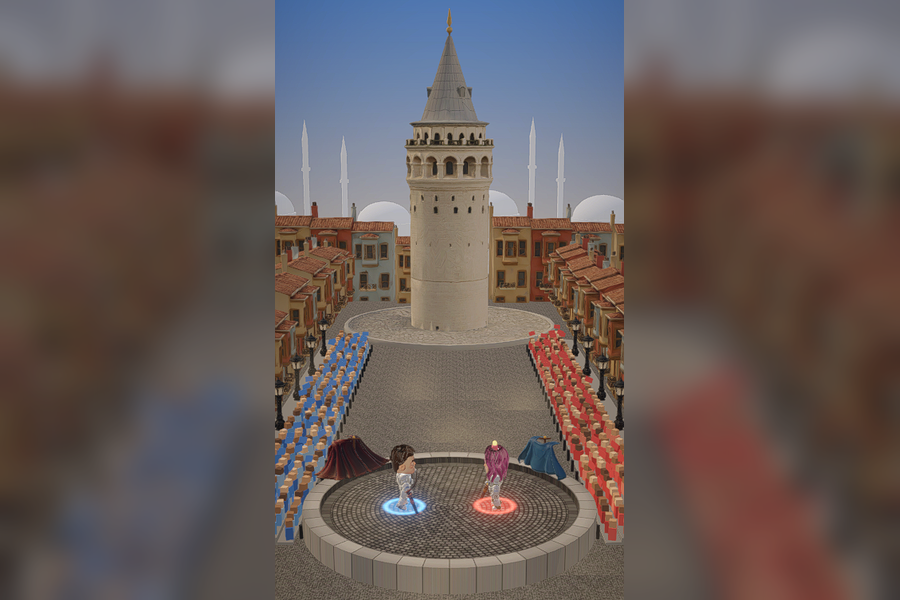
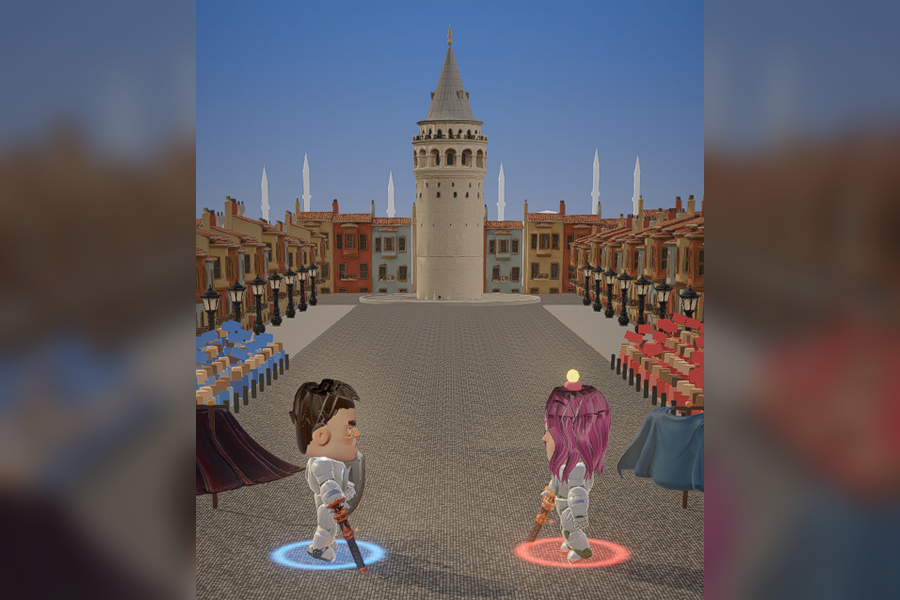
Galata: the fight on the street itself (no platform), the tower far up the street so the fight camera sees it whole

diff --git a/Assets/_Project/Scripts/Visual/DuelStandsCity.cs b/Assets/_Project/Scripts/Visual/DuelStandsCity.cs
@@ -3,7 +3,7 @@ using UnityEngine;
 namespace SquashBot.Visual
 {
     /// <summary>
-    /// The city stages (Galata first): no stands; the platform lies in a cobbled street that runs up to the landmark,
+    /// The city stages (Galata first): no stands, no platform; the fight is on a cobbled street that runs up to the landmark,
     /// the fans standing along its pavements lengthwise on low steps, houses either side, lamps, bollards, and the city's
     /// domes and minarets far behind.
     /// </summary>
@@ -21,13 +21,16 @@ namespace SquashBot.Visual
             sun = new Color(1f, 0.84f, 0.62f), sunPower = 1.25f, ambSky = new Color(0.66f, 0.7f, 0.82f), ambHorizon = new Color(0.82f, 0.7f, 0.56f), ambGround = new Color(0.3f, 0.29f, 0.28f),
         };
 
-        /// <summary>The landmark's height, its distance behind the platform's rim, and the houses' heights.</summary>
-        private const float TowerHeight = 42f, TowerBack = 56f, HouseMin = 10f, HouseMax = 13f;
+        /// <summary>The landmark's height and its distance behind the floor's room (far: the low fight camera sees it whole, at
+        /// the street's end), and the houses' heights.</summary>
+        private const float TowerHeight = 30f, TowerBack = 100f, HouseMin = 8f, HouseMax = 11f;
         /// <summary>Which way the house model's front faces before it is turned (degrees about up: 0 = +z).</summary>
         private const float HouseFront = 0f;
         /// <summary>How many rows of fans stand on each pavement, and how far apart (along the street and across it).</summary>
         private const int FanRows = 4;
         private const float FanRow = 1f, FanStep = 0.3f;
+        /// <summary>How far up the street the fans stand (beyond it the street is empty up to the tower).</summary>
+        private const float CrowdLength = 46f;
 
         /// <summary>The ground: one big quad, its picture tiled about every 3 m.</summary>
         private void PavedGround(Transform p, Look look, float ground)
@@ -57,7 +60,7 @@ namespace SquashBot.Visual
         }
 
         /// <summary>
-        /// The street (along -x, away from the camera) from beside the platform up to the tower on its cobbled plaza: on each
+        /// The street (along -x, away from the camera) from beside the fight up to the tower on its cobbled plaza: on each
         /// side (south -z: <paramref name="southTeam"/>'s fans) stepped pavements full of fans, bollards at the kerb, lamps,
         /// a row of houses; houses closing the far end behind the tower, the city's domes and minarets beyond.
         /// </summary>
@@ -78,15 +81,15 @@ namespace SquashBot.Visual
             tower.position += new Vector3(towerX - tb.center.x, ground - tb.min.y - 0.05f, centre.z - tb.center.z);
             float plaza = BoundsOf(tower).extents.x;
 
-            float front = centre.x + platR * 0.35f; // (the street's near end: a little in front of the platform's middle)
+            float front = centre.x + platR * 0.35f; // (the street's near end: a little in front of the fight's middle)
             float end = towerX - plaza;             // (its far end: the plaza's back)
-            float kerb = platR + 0.6f;              // (the first fans' row, off the platform's rim)
+            float kerb = platR + 0.6f;              // (the first fans' row, clear of the floor)
             float fronts = kerb + FanRows * FanRow + 0.6f; // (the houses' fronts)
 
             for (int side = -1; side <= 1; side += 2)
             {
                 int team = side < 0 ? southTeam : 1 - southTeam;
-                float stepsEnd = towerX + plaza * 0.9f; // (the pavements stop at the plaza)
+                float stepsEnd = Mathf.Max(towerX + plaza * 0.9f, front - CrowdLength); // (the fans near the fight; the pavements stop short of the plaza)
                 // the stepped pavement: each row a step higher, the last reaching the houses
                 for (int r = 0; r < FanRows; r++)
                 {
@@ -94,21 +97,25 @@ namespace SquashBot.Visual
                     float z0 = kerb + r * FanRow - 0.4f, z1 = r == FanRows - 1 ? fronts + 0.5f : z0 + FanRow;
                     Shapes.Rounded("Step", p, new Vector3((front + stepsEnd) * 0.5f, (ground + top) * 0.5f, centre.z + side * (z0 + z1) * 0.5f),
                         new Vector3(front - stepsEnd, top - ground, z1 - z0 + 0.02f), 0.04f, stone);
-                    // its fans, lengthwise, each looking at the platform
+                    // its fans, lengthwise, each looking at the fight
                     for (float x = front - 0.6f; x > stepsEnd + 0.6f; x -= 0.55f * k)
                         AddFan(new Vector3(x + R(-0.15f, 0.15f) * k, top, centre.z + side * (kerb + r * FanRow + R(-0.1f, 0.1f))), team, rng);
                 }
                 // bollards at the kerb, as in the old streets
                 for (float x = front - 1f; x > stepsEnd + 1f; x -= 2.4f)
                     Shapes.Primitive(PrimitiveType.Cylinder, "Bollard", p, new Vector3(x, ground + 0.45f, centre.z + side * (kerb - 0.75f)), new Vector3(0.24f, 0.45f, 0.24f), iron);
-                // lamps against the houses
-                for (float x = front - 2f; x > stepsEnd; x -= 9f)
+                // beyond the fans a plain pavement up to the plaza
+                if (stepsEnd > towerX + plaza)
+                    Shapes.Rounded("Pavement", p, new Vector3((stepsEnd + towerX + plaza) * 0.5f, ground + 0.1f, centre.z + side * (kerb - 0.4f + fronts + 0.5f) * 0.5f),
+                        new Vector3(stepsEnd - towerX - plaza, 0.2f, fronts + 0.9f - kerb), 0.04f, stone);
+                // lamps against the houses, all the way up
+                for (float x = front - 2f; x > towerX + plaza; x -= 9f)
                 {
                     var lamp = MadeModel(p, look, "lamp", false);
                     var lb = BoundsOf(lamp);
                     lamp.localScale = Vector3.one * (4.6f / Mathf.Max(0.01f, lb.size.y));
                     lb = BoundsOf(lamp);
-                    float top = ground + 0.2f + (FanRows - 1) * FanStep;
+                    float top = x > stepsEnd ? ground + 0.2f + (FanRows - 1) * FanStep : ground + 0.2f;
                     lamp.position += new Vector3(x - lb.center.x, top - lb.min.y, centre.z + side * (fronts - 0.5f) - lb.center.z);
                 }
                 // the houses along the street, fronts to it, up past the plaza
@@ -145,20 +152,20 @@ namespace SquashBot.Visual
             // the old city's skyline far behind: domes on drums, minarets
             var far = Matte(new Color(0.66f, 0.7f, 0.8f), 0.6f); // (hazy blue in the distance)
             var cone = Cone(12);
-            float farX = end - 40f;
+            float farX = end - 22f; // (inside the camera's reach)
             for (int i = 0; i < 4; i++)
             {
                 var at = new Vector3(farX - R(0f, 8f), ground, centre.z + Mathf.Lerp(-34f, 34f, i / 3f) + R(-4f, 4f));
-                float rad = R(4.5f, 6.5f);
+                float rad = R(3.5f, 5f);
                 Shapes.Primitive(PrimitiveType.Cylinder, "Drum", p, at + Vector3.up * rad * 0.9f, new Vector3(rad * 2.1f, rad * 0.9f, rad * 2.1f), far);
                 Shapes.Primitive(PrimitiveType.Sphere, "Dome", p, at + Vector3.up * rad * 1.8f, new Vector3(rad * 2f, rad * 1.5f, rad * 2f), far);
                 for (int m = -1; m <= 1; m += 2)
                 {
-                    float mh = R(22f, 27f);
+                    float mh = R(13f, 17f);
                     var foot = at + new Vector3(R(-2f, 2f), 0f, m * (rad + 2.5f));
-                    Shapes.Primitive(PrimitiveType.Cylinder, "Minaret", p, foot + Vector3.up * mh * 0.5f, new Vector3(1.1f, mh * 0.5f, 1.1f), far);
-                    Shapes.Primitive(PrimitiveType.Cylinder, "Balcony", p, foot + Vector3.up * mh * 0.78f, new Vector3(1.8f, 0.3f, 1.8f), far);
-                    Piece(p, "MinaretCap", cone, foot + Vector3.up * mh, new Vector3(1.2f, 4f, 1.2f), far);
+                    Shapes.Primitive(PrimitiveType.Cylinder, "Minaret", p, foot + Vector3.up * mh * 0.5f, new Vector3(0.8f, mh * 0.5f, 0.8f), far);
+                    Shapes.Primitive(PrimitiveType.Cylinder, "Balcony", p, foot + Vector3.up * mh * 0.78f, new Vector3(1.3f, 0.25f, 1.3f), far);
+                    Piece(p, "MinaretCap", cone, foot + Vector3.up * mh, new Vector3(0.9f, 2.8f, 0.9f), far);
                 }
             }
 

diff --git a/Assets/_Project/Scripts/Visual/DuelStands.cs b/Assets/_Project/Scripts/Visual/DuelStands.cs
@@ -659,25 +659,31 @@ namespace SquashBot.Visual
             if (batches.Count == 0) MakeBatches();
             float R(float a, float b) => a + (float)rng.NextDouble() * (b - a);
 
-            // The platform: round (as made), its stone ring a little wider than the floor, its top where the floor is.
-            var plat = MadeModel(p, look, "platform", true, true);
-            var pb = BoundsOf(plat);
-            float kp = Mathf.Max(hw, hd) * 2f * 1.28f / Mathf.Max(pb.size.x, pb.size.z);
-            plat.localScale = new Vector3(kp, kp * look.thick, kp);
-            pb = BoundsOf(plat);
-            plat.position += new Vector3(centre.x - pb.center.x, 0f, centre.z - pb.center.z);
-            // its walking surface: the highest of several points across it (an inlaid emblem in the middle may sit lower)
-            float top = float.MinValue;
-            for (int i = 0; i <= 8; i++)
+            // The platform: round (as made), its stone ring a little wider than the floor, its top where the floor is (a
+            // street has none: the fight is on its cobbles; the same room is kept round the floor).
+            Bounds pb;
+            if (look.street) pb = new Bounds(new Vector3(centre.x, floorY, centre.z), new Vector3(Mathf.Max(hw, hd) * 2.56f, 0f, Mathf.Max(hw, hd) * 2.56f));
+            else
             {
-                float a = i * Mathf.PI / 4f, rr = i == 8 ? 0f : Mathf.Min(hw, hd) * 0.55f;
-                top = Mathf.Max(top, SurfaceAt(plat, new Vector3(centre.x + Mathf.Cos(a) * rr, pb.max.y + 1f, centre.z + Mathf.Sin(a) * rr), float.MinValue));
+                var plat = MadeModel(p, look, "platform", true, true);
+                pb = BoundsOf(plat);
+                float kp = Mathf.Max(hw, hd) * 2f * 1.28f / Mathf.Max(pb.size.x, pb.size.z);
+                plat.localScale = new Vector3(kp, kp * look.thick, kp);
+                pb = BoundsOf(plat);
+                plat.position += new Vector3(centre.x - pb.center.x, 0f, centre.z - pb.center.z);
+                // its walking surface: the highest of several points across it (an inlaid emblem in the middle may sit lower)
+                float top = float.MinValue;
+                for (int i = 0; i <= 8; i++)
+                {
+                    float a = i * Mathf.PI / 4f, rr = i == 8 ? 0f : Mathf.Min(hw, hd) * 0.55f;
+                    top = Mathf.Max(top, SurfaceAt(plat, new Vector3(centre.x + Mathf.Cos(a) * rr, pb.max.y + 1f, centre.z + Mathf.Sin(a) * rr), float.MinValue));
+                }
+                if (top == float.MinValue) top = pb.max.y;
+                plat.position += Vector3.up * (floorY - top);
+                if (look.cover > 0f) CoverEmblem(p, plat, look, centre, floorY, Mathf.Max(hw, hd) * look.cover); // (the middle plain: marble of the platform's own stone)
             }
-            if (top == float.MinValue) top = pb.max.y;
-            plat.position += Vector3.up * (floorY - top);
-            if (look.cover > 0f) CoverEmblem(p, plat, look, centre, floorY, Mathf.Max(hw, hd) * look.cover); // (the middle plain: marble of the platform's own stone)
             // The forest floor a little under the platform's top: it stands on the land, sunk in it (not up in the air).
-            float ground = floorY - 1.1f;
+            float ground = look.street ? floorY - 0.02f : floorY - 1.1f;
             var moss = Matte(look.ground, 0.2f); // (a little of its own light: the land reads in the dark)
             if (look.paving != null) PavedGround(p, look, ground);
             else Shapes.Rounded("Ground", p, new Vector3(centre.x - 10f, ground - 0.3f, centre.z), new Vector3(110f, 0.6f, 110f), 0.05f, moss);
